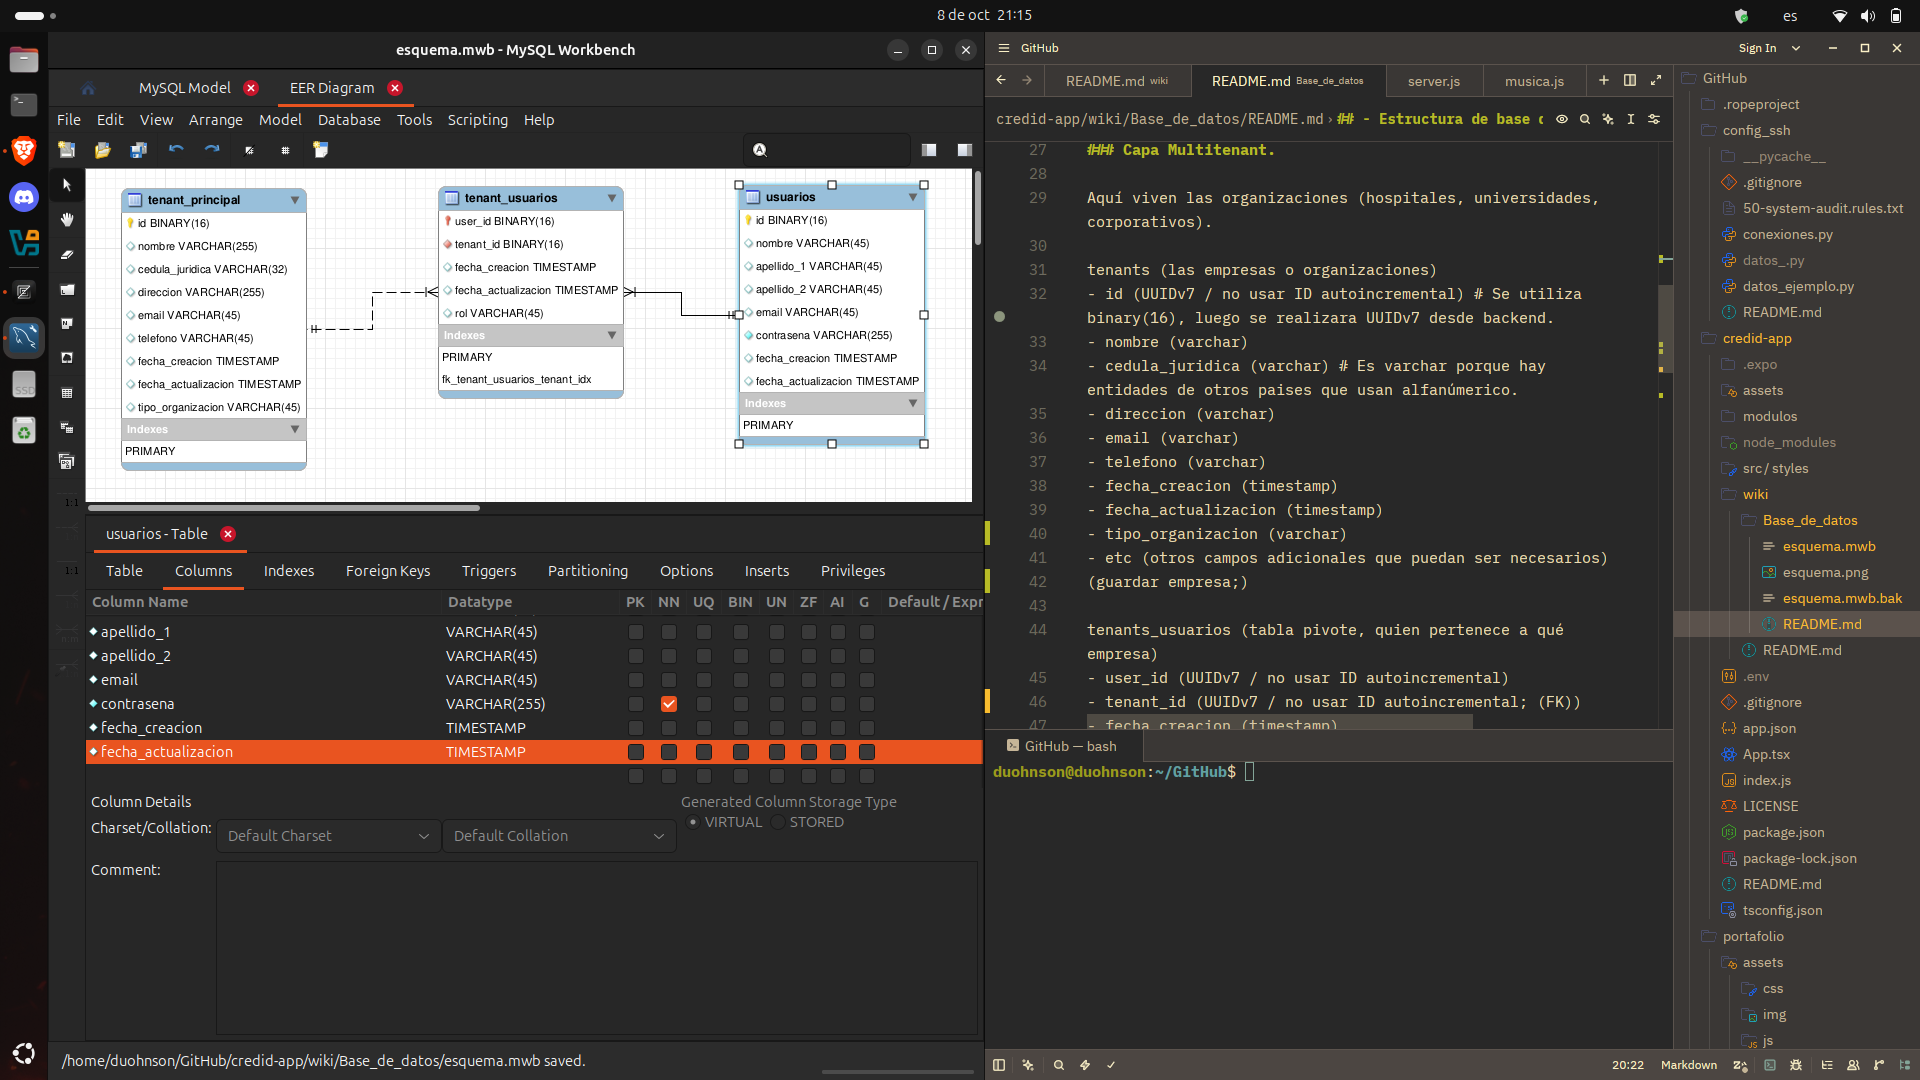
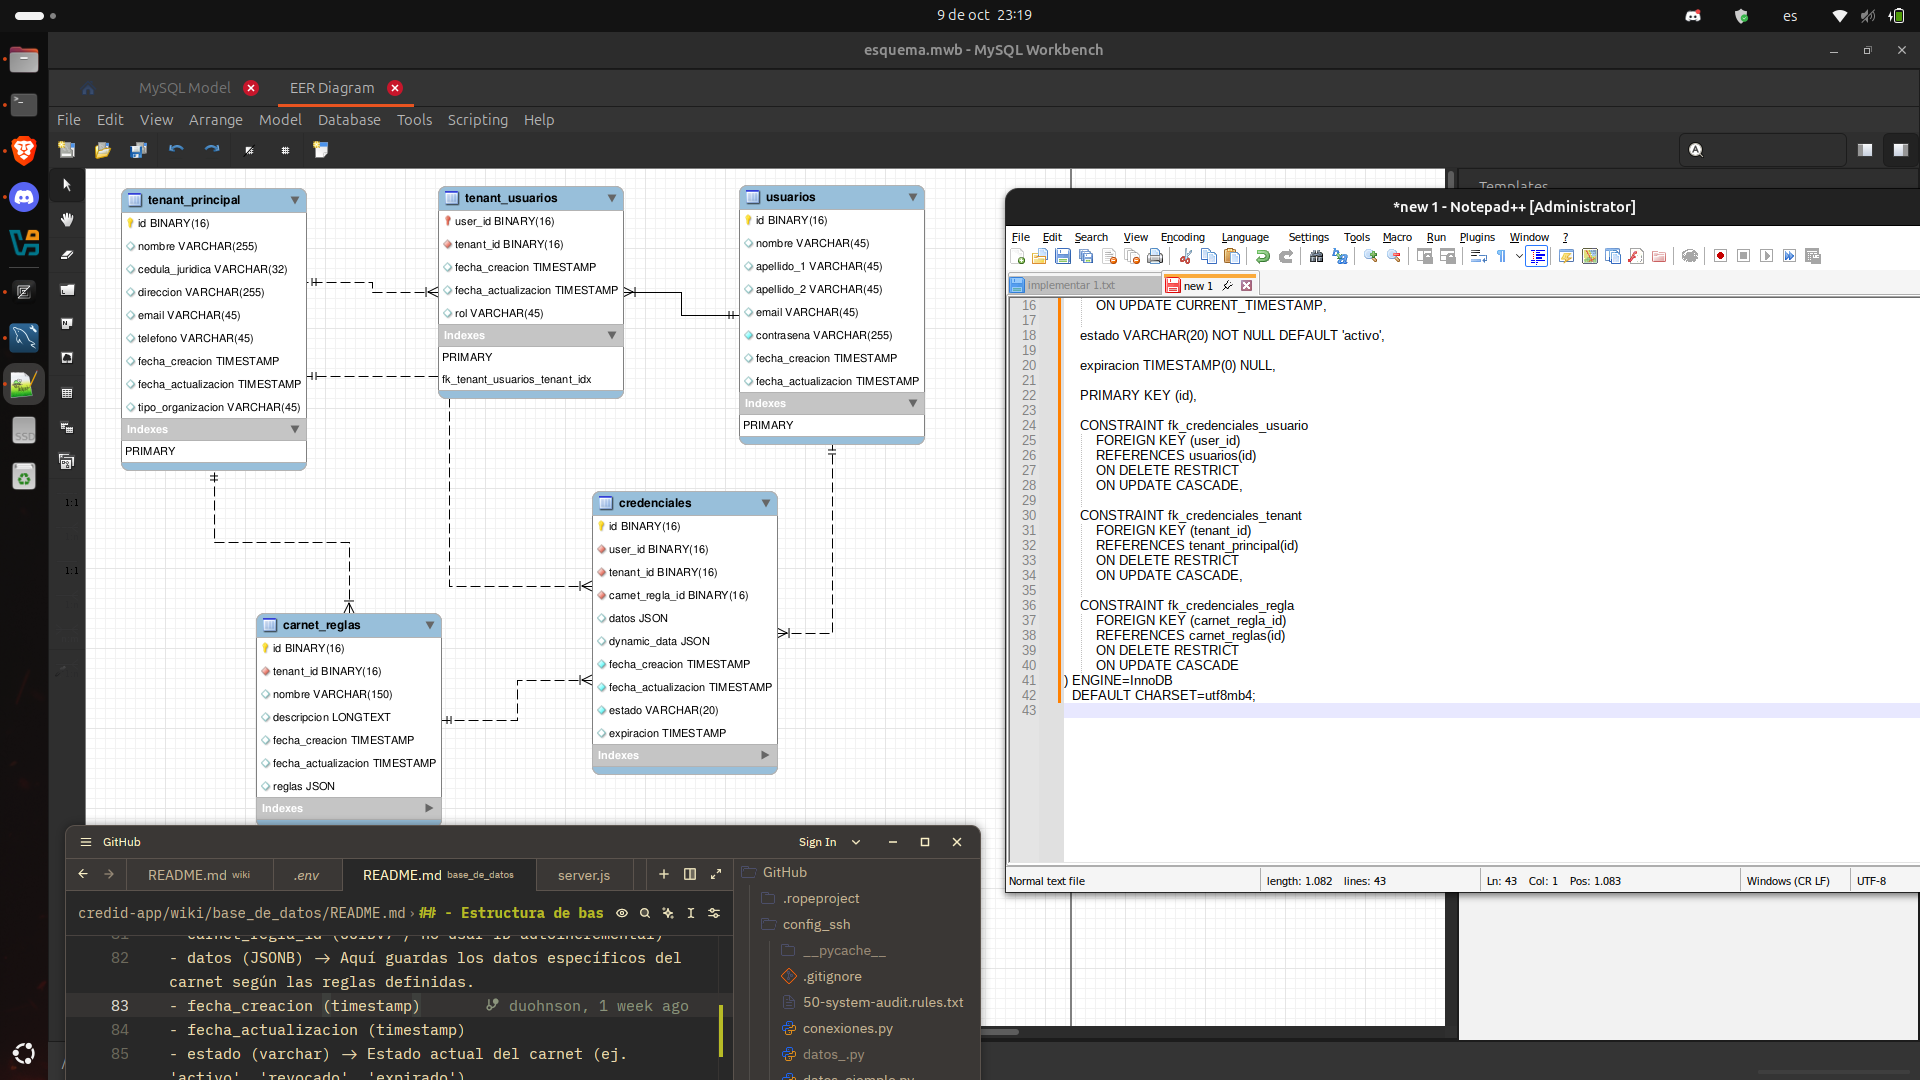
upt: motores finalizados

diff --git a/wiki/base_de_datos/README.md b/wiki/base_de_datos/README.md
@@ -9,6 +9,17 @@ Para evitar el cuello de botella en futuros registros y operaciones, se usa un m
 Video bueno que encontre sobre explicación Multi Tenant : [https://www.youtube.com/watch?v=x-nh-ZmaIHw](https://www.youtube.com/watch?v=x-nh-ZmaIHw)
 Creditos a su creador.
 
+(FK guarda un identificador que apunta a un registro en otra tabla, cada user tiene su identificador unico, 
+ejemplo: usuario 1 tiene identificador, y organizacion 1 tiene identificador, 
+usuario 1 conecta con organizacion 1 en tenant_usuarios, ellos conectan los identificadores de las tablas tenant_principal (las empresas), y usuarios,
+
+user_id | tenant_id | rol
+101       500         empleado
+
+el usuario con id 101 es empleado en la organizacion con id 500
+
+)
+
 ### Capa global para identidad.
 
 Un usuario no debe pertenecer a una sola empresa. Si yo trabajo en la Empresa A y voy al Gimnasio B, ambas deberían poder emitirme un carnet de CREDID hacia la misma cuenta y aplicación móvil.
@@ -60,7 +71,7 @@ carnets_reglas
 - descripcion (varchar)
 - fecha_creacion (timestamp)
 - fecha_actualizacion (timestamp)
-- schema_definition (JSONB) -> Aquí guardas las reglas. Ej: {"matricula": [{"nombre": "tipo_de_identificacion", "tipo": "string", "requerido": true}]}
+- reglas (JSONB) -> Aquí guardas las reglas. Ej: {"matricula": [{"nombre": "tipo_de_identificacion", "tipo": "string", "requerido": true}]}
 El objetivo de esta tabla es permitir que cada empresa defina sus propias reglas y estructuras de datos para los carnets, de manera que el sistema sea altamente extensible y adaptable a diferentes necesidades.
 
 credenciales (los carnets emitidos a los usuarios)
